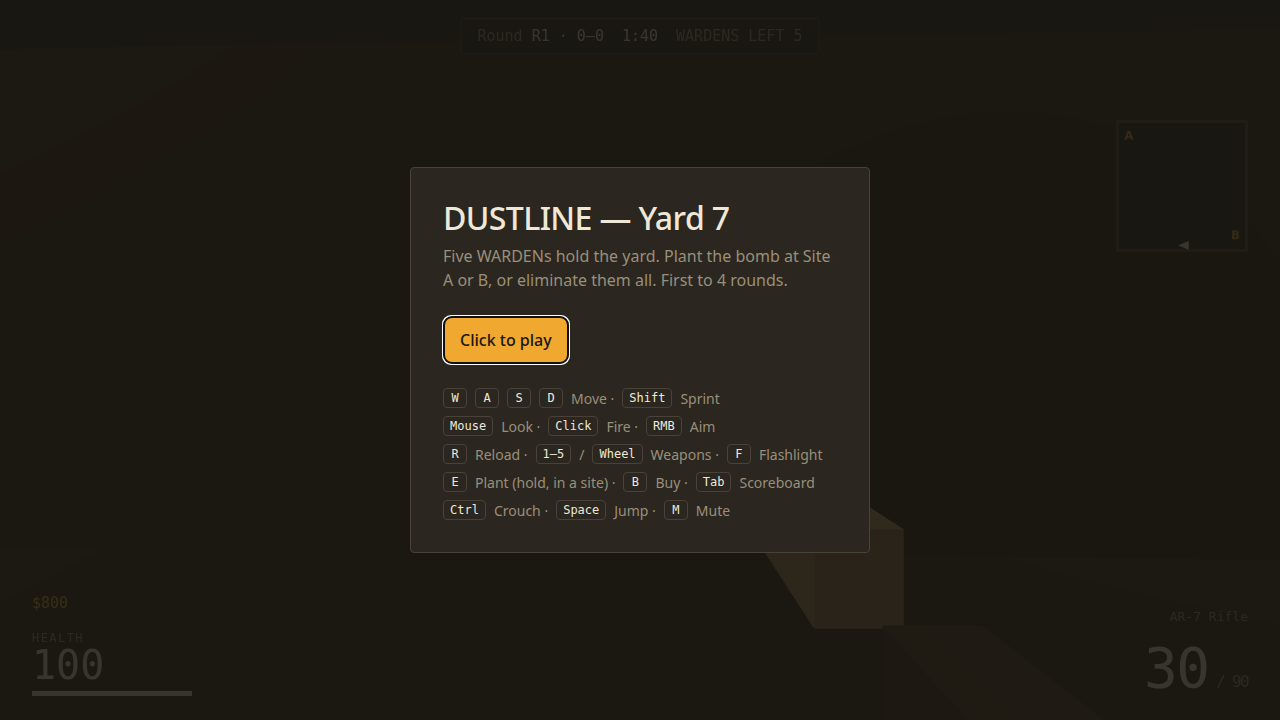
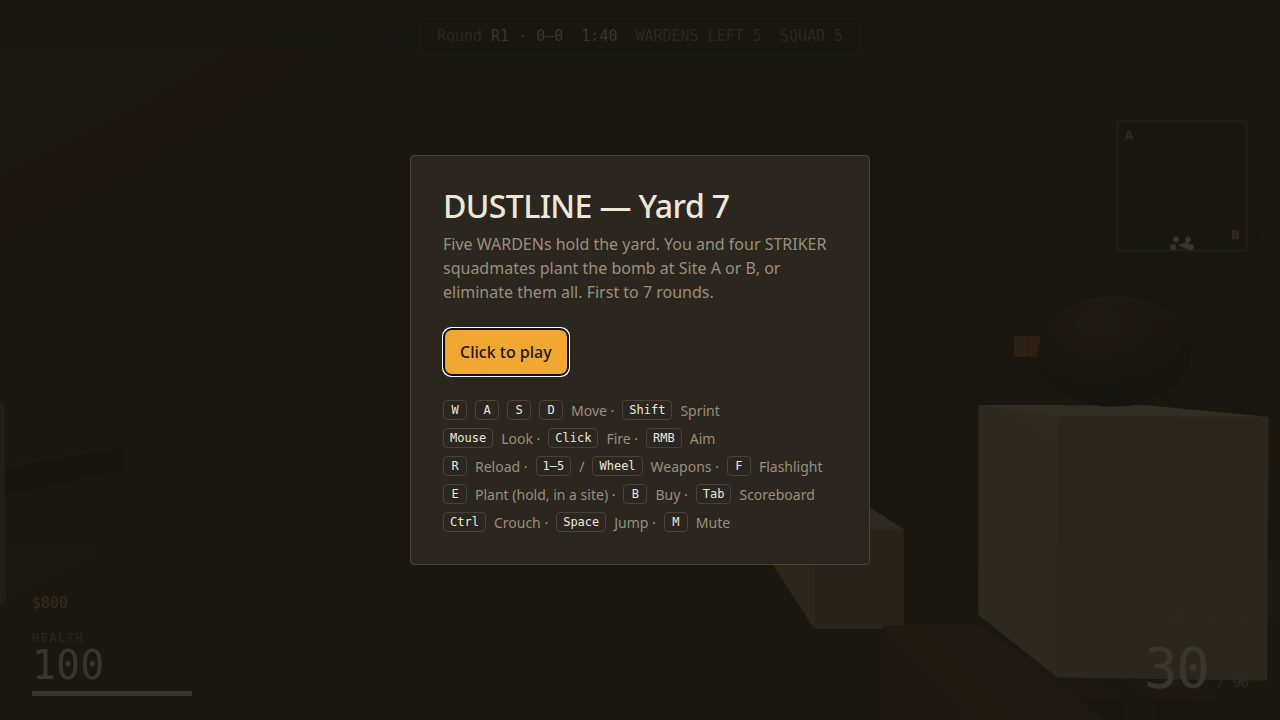
Fix play capture: staged WARDEN in mid lane, AI frozen in shot mode; shrink view model

Changed region(s): [[0.3438, 0.2444, 0.6562, 0.7333], [0.7812, 0.55, 0.9375, 0.5806]]

diff --git a/game/src/weapons.js b/game/src/weapons.js
@@ -31,7 +31,8 @@ export function createWeapons(camera) {
     else if (kind === 'dmr') { add(0.08, 0.1, 0.5, 0, 0, -0.16); add(0.03, 0.06, 0.1, 0, 0.07, -0.1, dark); add(0.07, 0.08, 0.22, 0, -0.02, 0.28, grip); }
     else if (kind === 'grenade') { const s = new THREE.Mesh(new THREE.SphereGeometry(0.06, 12, 10), dark); s.position.set(0, 0, -0.1); g.add(s); }
     else { add(0.09, 0.1, 0.42, 0, 0, -0.14); add(0.045, 0.045, 0.4, 0, 0.025, -0.38, grip); add(0.075, 0.08, 0.22, 0, -0.02, 0.3, grip); }
-    g.position.set(0.22, -0.22, -0.55);
+    g.position.set(0.26, -0.26, -0.5);
+    g.scale.setScalar(0.62);
     return g;
   }
 
@@ -43,10 +44,10 @@ export function createWeapons(camera) {
   }
   const flash = new THREE.Mesh(new THREE.PlaneGeometry(0.24, 0.24),
     new THREE.MeshBasicMaterial({ color: new THREE.Color(PALETTE.accent), transparent: true, opacity: 0.9, depthWrite: false, side: THREE.DoubleSide }));
-  flash.position.set(0.22, -0.2, -1.05); flash.visible = false;
+  flash.position.set(0.26, -0.24, -0.95); flash.visible = false;
   camera.add(flash);
   const flashLight = new THREE.PointLight(new THREE.Color(PALETTE.accent), 0, 5);
-  flashLight.position.set(0.24, -0.16, -0.6);
+  flashLight.position.set(0.26, -0.2, -0.55);
   camera.add(flashLight);
   const torch = new THREE.SpotLight(new THREE.Color('#ffd9a0'), 0, 26, 0.5, 0.45, 1.2);
   torch.position.set(0, 0, 0);
@@ -122,11 +123,11 @@ export function createWeapons(camera) {
       state.bobPhase += dt * (2 + speed * 1.6);
       const bob = Math.min(1, speed / 5.2) * 0.012;
       const m = models[state.current];
-      const aimX = state.aiming ? 0 : 0.22;
-      const aimY = state.aiming ? -0.17 : -0.22;
+      const aimX = state.aiming ? 0 : 0.26;
+      const aimY = state.aiming ? -0.19 : -0.26;
       m.position.x += (aimX - m.position.x) * Math.min(1, dt * 14);
       m.position.y = aimY + Math.sin(state.bobPhase * 2) * bob;
-      m.position.z = -0.55 + state.kick;
+      m.position.z = -0.5 + state.kick;
       m.rotation.x = state.kick * 2.2;
       if (state.reloadLeft > 0) {
         state.reloadLeft = Math.max(0, state.reloadLeft - dt);

diff --git a/game/src/main.js b/game/src/main.js
@@ -419,8 +419,9 @@ function step(dt) {
     }
   }
 
-  // Bots.
-  if (live || game.phase === 'roundEnd') {
+  // Bots. In ?shot= captures the AI holds still, so the staged frame is
+  // deterministic (the starter does the same with its targets).
+  if (!shot && (live || game.phase === 'roundEnd')) {
     const targets = [
       { pos: body.position, alive: game.playerAlive, isPlayer: true, ref: null },
       ...mates.mates.map((m) => ({ pos: m.body.position, alive: m.alive, isPlayer: false, ref: m })),
@@ -582,18 +583,23 @@ function runShot(name) {
     game.phase = 'live'; game.phaseTime = ROUND_SECONDS;
     resetRoundPositions();
     settle(20);
-    // Walk a little forward, then engage the nearest bot.
+    // Walk a little forward, then engage a WARDEN staged in the open mid lane
+    // (the AI holds still in ?shot= captures, so the frame is deterministic).
+    // Aim and shoot at once; let the muzzle flash fade before the capture.
     body.position.set(0, 0, 8);
-    settle(30);
-    const bot = bots.bots.find((b) => b.alive && !losBlocked(body.position.x, body.position.z, b.body.position.x, b.body.position.z))
-      ?? bots.bots.find((b) => b.alive);
+    const staged = bots.bots[0];
+    staged.body.position.set(-4, 0, -6);
+    staged.body.yaw = Math.atan2(-4, -14);
+    staged.group.position.set(-4, 0, -6);
+    staged.group.rotation.y = staged.body.yaw;
+    const bot = staged;
     if (bot) {
       aimAt(new THREE.Vector3(bot.body.position.x, 1.35, bot.body.position.z));
       for (let r = 0; r < 3; r += 1) { shoot(0); settle(8); }
       settle(12);
       aimAt(new THREE.Vector3(bot.body.position.x, 1.1, bot.body.position.z));
       shoot(0);
-      settle(1);
+      settle(6);
     }
     if (name === 'end') {
       game.scoreUs = 3; game.scoreThem = 2; game.round = 6;
